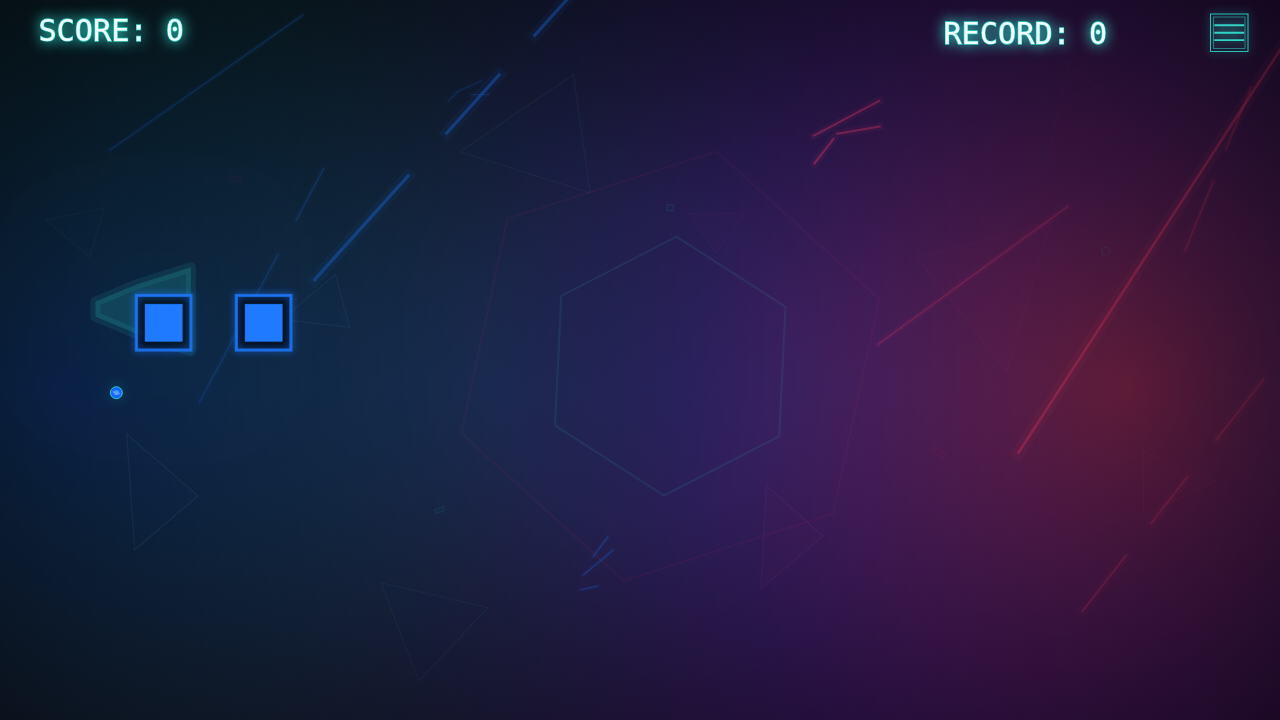
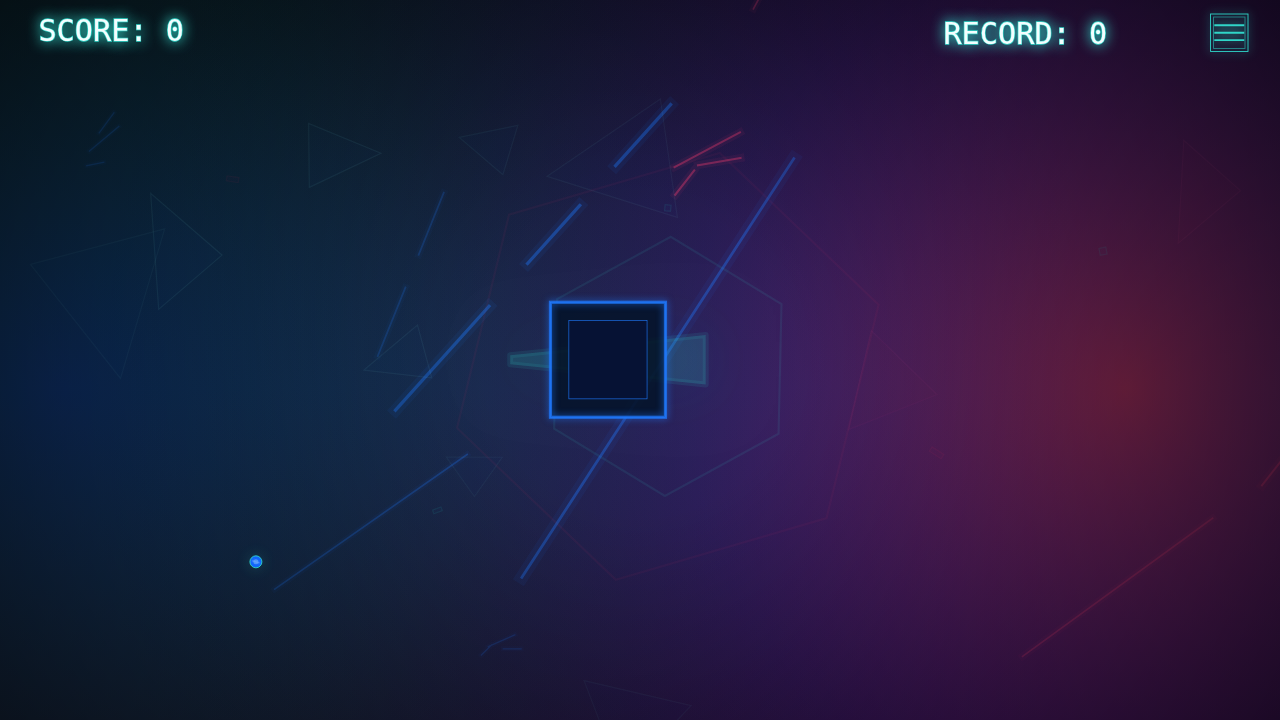
TASK-092: darken blue cube shells

diff --git a/sprites/rect.js b/sprites/rect.js
@@ -73,7 +73,8 @@ class Rect extends Element
         ctx.shadowColor = this.stroke
         ctx.shadowBlur = STYLE.strokes.neonGlowWidth
         ctx.strokeRect(x, y, this.width, this.height)
-        this.drawInnerRectangleCopy(x, y, STYLE.badVersionEffects.obstacles.innerCopyInsetRatio, this.stroke, this.stroke)
+        const innerFill = this.stroke == STYLE.colors.cube.blueStroke ? STYLE.colors.cube.blueFill : this.stroke
+        this.drawInnerRectangleCopy(x, y, STYLE.badVersionEffects.obstacles.innerCopyInsetRatio, innerFill, this.stroke)
         ctx.restore()
     }
     drawBadVersionRect(x, y)
@@ -84,7 +85,7 @@ class Rect extends Element
         const fill = isGreenSafe ? obstacleStyle.greenFill : (isGray ? obstacleStyle.grayFill : obstacleStyle.cubeFill)
         const isBlueCube = this.stroke == STYLE.colors.cube.blueStroke
         const copyFill = isBlueCube
-            ? this.stroke
+            ? STYLE.colors.cube.blueFill
             : isGreenSafe
             ? obstacleStyle.greenHighlightFill
             : (isGray ? obstacleStyle.grayHighlightFill : obstacleStyle.cubeHighlightFill)

diff --git a/progress.md b/progress.md
@@ -162,3 +162,4 @@ TASK-093: Randomized cached background flash positions uniformly across the full
 TASK-094: Randomized decorative background triangle positions in the shared background renderer, verified classic/bad sampled coverage and side-based palettes, inspected screenshots/TASK-094.png, no JS console errors, and valid JSON. Gotcha: triangle coordinates are cached per refresh bucket/reset like flashes, so screenshots show one representative randomized draw.
 TASK-095: Added portrait-phone forced landscape canvas presentation with rotated viewport styling and coordinate remapping; verified five portrait screenshots, bad-version/menu click targets, landscape non-rotation, no JS console errors, and valid JSON. Gotcha: portrait screenshots remain portrait image files, but the game content is visibly rotated/presented as landscape inside them.
 TASK-091: Restored the live gameplay FPS counter to its smaller pre-task sizing while keeping main/pause FPS checkbox text and square matched to back-to-menu text; verified classic/bad toggles, inspected screenshots/TASK-091.png, no JS errors, and valid JSON. Gotcha: the latest acceptance note says only menu texts should be enlarged, so the tiny in-game FPS panel is intentional.
+TASK-092: Changed blue cube inset shells from bright blue to opaque dark blue in classic and bad versions; browser pixel probes confirmed trail-overlapped shell samples are #061234 alpha 255, no JS errors, valid JSON, and refreshed screenshots/TASK-092.png. Gotcha: screenshot uses a deterministic forced cube/trail overlap so the shell opacity and color are easy to inspect.
